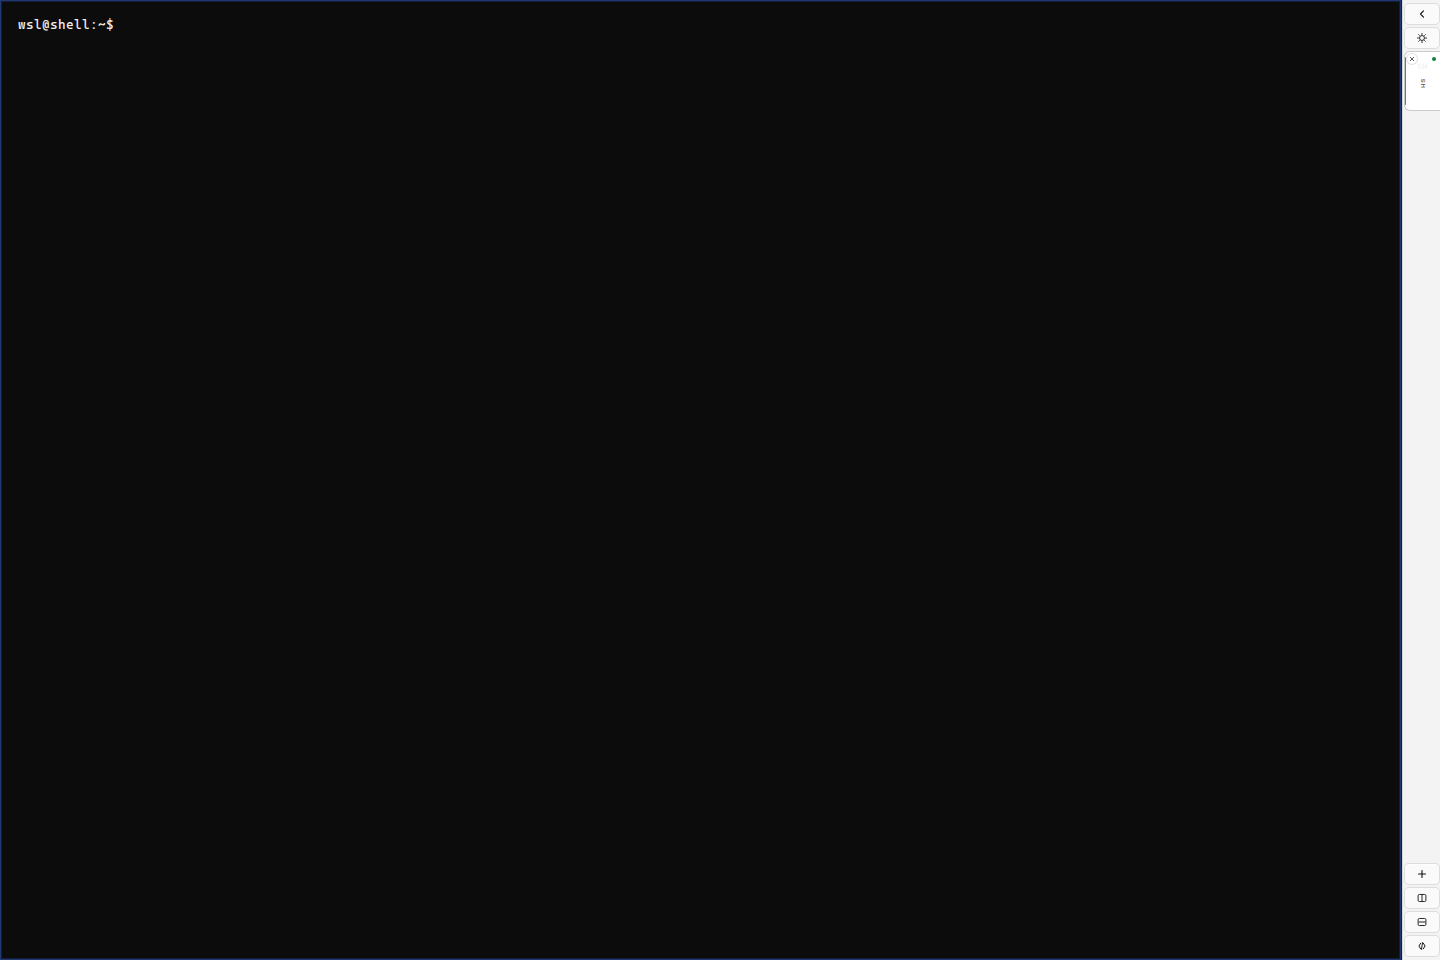
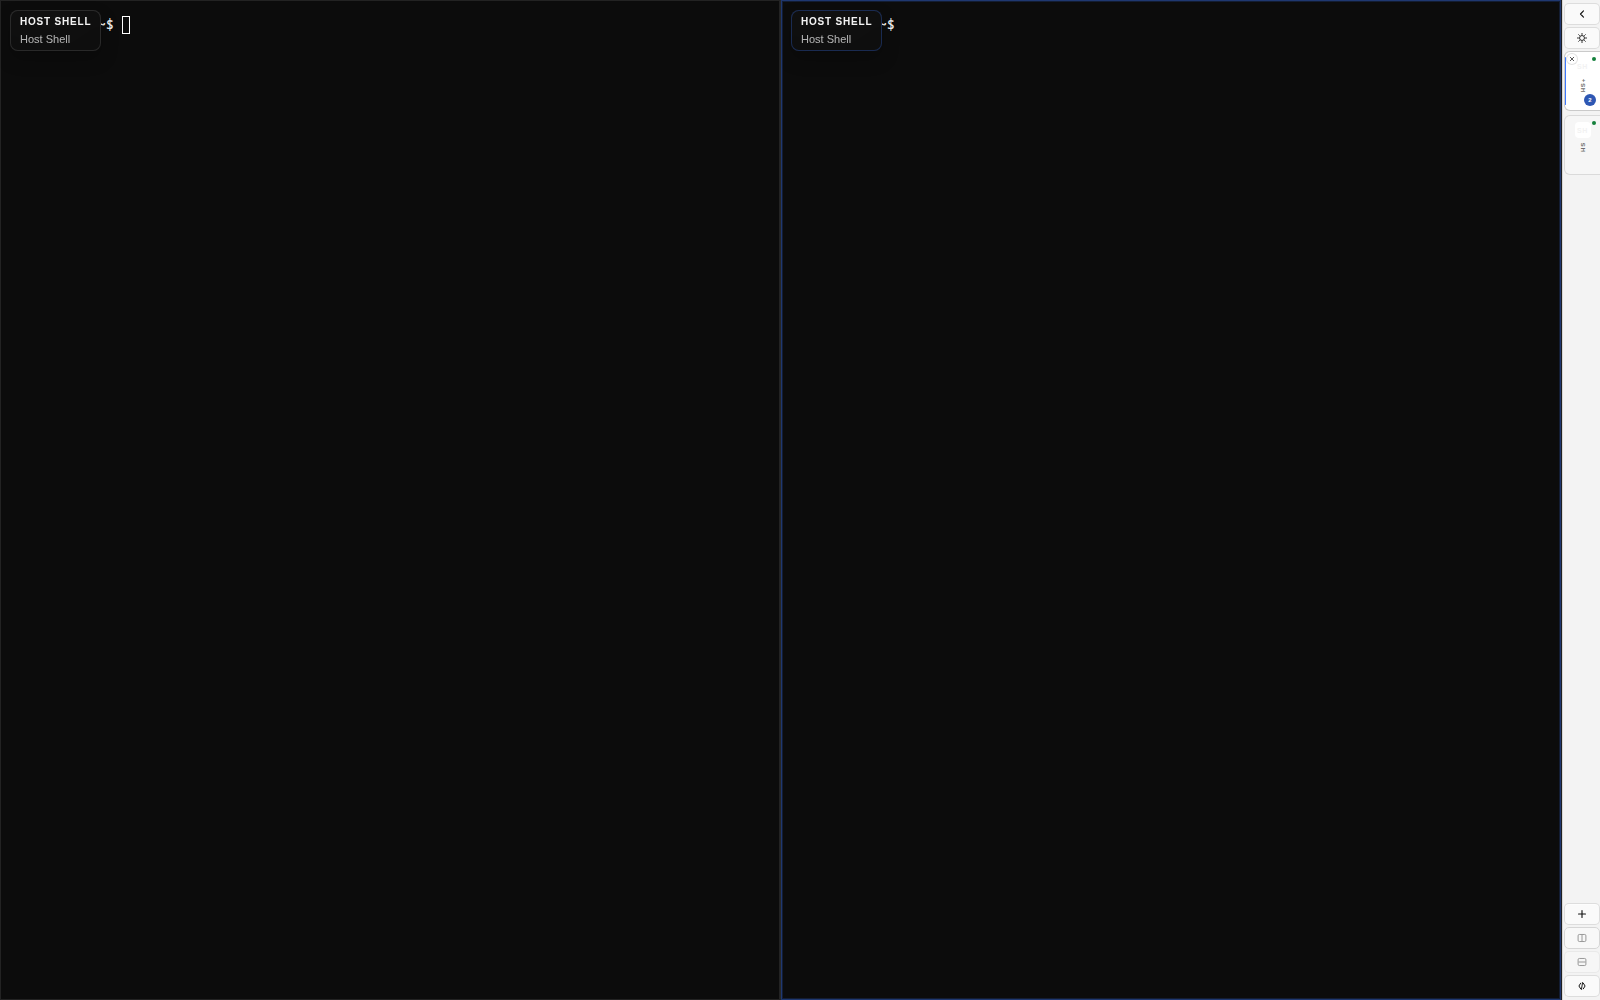
Refresh docs and sample screenshots

diff --git a/docs/compatibility.md b/docs/compatibility.md
@@ -62,7 +62,7 @@ Profile fields used by the UI/runtime:
 Action fields currently mapped by the frontend:
 
 - string commands such as `"newTab"`
-- object commands with `command.action`, such as `{ "action": "newTab" }`
+- object commands with `command.action`, such as `{ "command": { "action": "newTab" } }`
 - mapped actions currently include `newTab`, `closeTab`, `nextTab`, `prevTab`, and `openSettings`
 
 ## Runtime Behavior
@@ -70,6 +70,7 @@ Action fields currently mapped by the frontend:
 - `webpty up` serves the embedded shell UI, `/api/*`, and `/ws/*` from one Rust process
 - `webpty up` resolves settings in this order: explicit `--settings` / `WEBPTY_SETTINGS_PATH`, then the user-scoped platform path (`~/.config/webpty/settings.json` on Linux, `~/Library/Application Support/webpty/settings.json` on macOS, `%APPDATA%\\webpty\\settings.json` on Windows)
 - the repo sample at `./config/webpty.settings.json` is intentionally opt-in through `webpty up --settings ./config/webpty.settings.json`
+- the repo sample is a fixed demo catalog for screenshots and manual QA; it is not the same thing as the host-generated first-run defaults
 - if the settings file does not exist, `webpty` creates a default one
 - generated first-run settings now follow the runtime host: Windows seeds PowerShell/WSL-oriented profiles, while Linux/macOS seed local shell-first profiles
 - if an existing settings file is invalid, startup fails without overwriting it
@@ -78,6 +79,7 @@ Action fields currently mapped by the frontend:
 - the in-app settings workspace opens as its own tab from the rail rather than overlaying the shell
 - the in-app Theme Studio can create, duplicate, delete, and update `themes[]` entries and can also update `theme`
 - the in-app Profile Studio can create, duplicate, delete, and update `profiles.list[]` entries and can also update `defaultProfile`
+- Theme Studio and Profile Studio draft syncing avoids self-triggered render loops while switching entries or reloading runtime settings
 - `GET /api/health` now includes `hostPlatform` so the UI can keep Profile Studio command and directory hints aligned with the runtime OS
 - the in-app Theme and Profile studios expose direct text editing plus color-picker controls for chrome and shell colors
 - theme and profile color inputs keep full token and hex values visible instead of clipping them down to a prefix stub
@@ -110,6 +112,7 @@ Action fields currently mapped by the frontend:
 - Rust rebuilds now track embedded UI asset changes so the served bundle stays current after frontend builds
 - the shipped UI keeps the terminal dominant, the right rail thin and hideable, and the settings workspace as a full tab rather than a floating overlay
 - the terminal viewport now reruns fit passes after mount and font load so narrow/mobile shells settle onto the visible width instead of keeping the initial off-canvas geometry
+- split panes keep visible badge chrome and active borders so pane identity remains readable without a top toolbar
 
 ## Known Gaps
 

diff --git a/README.md b/README.md
@@ -44,6 +44,7 @@ Implemented:
 - tighter Windows 11-aligned rail density with white flat tab surfaces and a dedicated settings workspace tab
 - dedicated Theme Studio for `themes[]`, `theme`, frame colors, and shell chrome editing
 - dedicated Profile Studio for `profiles.list[]`, default profile, prompt, font, and shell field editing
+- stable Theme Studio / Profile Studio draft syncing with no recursive render-loop console errors
 - in-app create / duplicate / delete flows for profile and theme entries
 - in-app color pickers for tab, frame, shell, cursor, and selection colors
 - full color value editing in Theme Studio and Profile Studio so hex fields stay readable instead of collapsing to a clipped prefix
@@ -70,10 +71,12 @@ Implemented:
 - stricter launch cwd validation so file paths do not become session working directories
 - safer Funnel cleanup and broader capability detection during startup and shutdown
 - vertical and horizontal split creation inside the active tab
+- visible split-pane identity badges and stronger active-pane framing inside the terminal workspace
 - WebSocket input/output streaming and PTY resize handling
 - browser-safe profile icon sources rendered in the rail and settings workspace
 - embedded UI rebuild tracking so Rust picks up fresh bundled assets after frontend builds
 - flatter Windows 11-style rail and settings surfaces with tighter density and broader text-overflow protection
+- refreshed repository screenshots captured from the sample settings catalog for stable docs output
 
 Known gaps:
 
@@ -113,6 +116,9 @@ Run with the repository sample settings:
 ```bash
 webpty up --settings ./config/webpty.settings.json
 ```
+
+`./config/webpty.settings.json` is a fixed demo catalog for screenshots and
+manual QA. Installed first-run defaults still come from the runtime host.
 
 ### External Access
 

diff --git a/README.ko.md b/README.ko.md
@@ -40,6 +40,7 @@
 - 더 조밀한 Windows 11 스타일 레일 밀도, 흰색 플랫 탭, 별도 설정 워크스페이스 탭
 - `themes[]`, `theme`, 프레임 색상, 셸 크롬을 바로 다루는 Theme Studio
 - `profiles.list[]`, 기본 프로필, 프롬프트, 폰트, 셸 필드를 바로 다루는 Profile Studio
+- Theme Studio / Profile Studio 초안 동기화에서 재귀 렌더 루프 콘솔 오류가 나지 않도록 한 안정화
 - profile/theme 항목 생성·복제·삭제용 인앱 UI
 - 탭, 프레임, 셸, 커서, 선택 영역 색상을 위한 인앱 color picker
 - Theme Studio / Profile Studio의 색상 값 입력창이 잘리지 않도록 전체 값을 그대로 보여주는 편집 UI
@@ -66,10 +67,12 @@
 - 파일 경로가 세션 작업 디렉터리가 되지 않도록 하는 stricter cwd 검증
 - 시작/종료 시 Funnel 정리 경로와 capability 판별 보강
 - 활성 탭 안에서 수직/수평 split 생성
+- 터미널 워크스페이스 안에서 pane 식별 배지와 활성 pane 프레임을 드러내는 split chrome
 - PTY 입력, 리사이즈, 출력 스트림 처리
 - 브라우저에서 접근 가능한 프로필 아이콘 소스를 레일과 설정 워크스페이스에 렌더링
 - 프런트 빌드 후 Rust 임베디드 UI가 새 자산을 다시 포함하도록 하는 재빌드 추적
 - 더 평평한 Windows 11 스타일 레일/설정 패널과 텍스트 overflow 방지 보강
+- 레포 샘플 설정 기준으로 다시 캡처한 최신 문서 스크린샷
 
 알려진 공백:
 
@@ -109,6 +112,9 @@ webpty up
 ```bash
 webpty up --settings ./config/webpty.settings.json
 ```
+
+`./config/webpty.settings.json`은 스크린샷과 수동 QA를 위한 고정 데모
+카탈로그입니다. 실제 설치 후 첫 기본값은 여전히 실행 환경을 따릅니다.
 
 ### 외부 접속
 

diff --git a/docs/implementation-audit.md b/docs/implementation-audit.md
@@ -31,9 +31,11 @@ This pass checked the repo against the current product constraints:
 - corrected the macOS user-scoped settings path to `~/Library/Application Support/webpty/settings.json`
 - flattened the right rail and split-pane treatment toward the thinner shell-first layout used by the product spec
 - tightened the right rail, settings panels, and preview surfaces further so the chrome stays flatter and text is less likely to escape its container
+- removed a Theme/Profile Studio draft-sync render loop that could trigger repeated `Maximum update depth exceeded` errors in the browser console
 - aligned Profile Studio prompt previews with the runtime `{profile}` sanitization path
 - stabilized xterm fitting with repeated post-mount passes so narrow and mobile widths no longer keep the initial off-canvas geometry
 - surfaced runtime host metadata to the UI so Profile Studio placeholders reflect the actual execution OS
+- surfaced split-pane identity chrome with visible pane badges and stronger active-pane framing
 - refreshed the documentation screenshots from the running app after the latest UI pass
 - aligned the docs with the current Theme Studio / Profile Studio naming that ships in the interface
 
@@ -53,6 +55,8 @@ This pass checked the repo against the current product constraints:
 - repeated xterm fit passes that settle correctly on narrow and mobile widths
 - host-scoped default profile generation and host-native settings paths
 - runtime host-aware placeholder hints inside Profile Studio
+- stable Theme/Profile draft syncing without recursive render-loop churn
+- visible split-pane identity chrome inside the terminal workspace
 - broader text-overflow protection in the right rail and settings workspace
 
 ## Remaining Gaps

diff --git a/docs/runtime-contracts.md b/docs/runtime-contracts.md
@@ -58,6 +58,8 @@ Default path selection:
 - Windows: `%APPDATA%\\webpty\\settings.json`
 
 The repo sample stays opt-in through `webpty up --settings ./config/webpty.settings.json`.
+It is a fixed demo catalog for screenshots and manual QA, not the same thing as the
+generated first-run defaults.
 
 Disk parsing accepts JSONC-style comments and trailing commas.
 If the settings file is missing, the generated default profile catalog follows the runtime host rather than assuming one fixed OS.
@@ -150,4 +152,5 @@ Connection behavior:
 - `webpty up --funnel` reuses an existing Funnel mapping for the same local target when possible, otherwise it allocates an allowed HTTPS port and cleans it up on exit, including timeout / SIGTERM-style shutdown paths
 - the settings surfaces open in a dedicated workspace tab instead of overlaying the terminal stage
 - the frontend uses `hostPlatform` from `/api/health` to keep Profile Studio command and directory placeholders host-aware
+- split panes keep visible badge chrome and active-pane framing inside the terminal workspace
 - advanced pane graphs, search, and command palette remain future milestones
